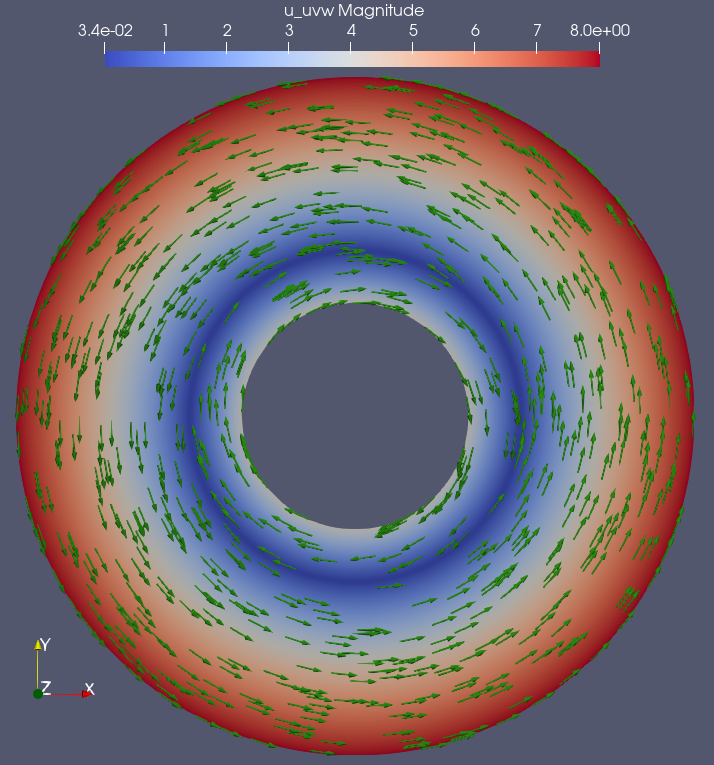
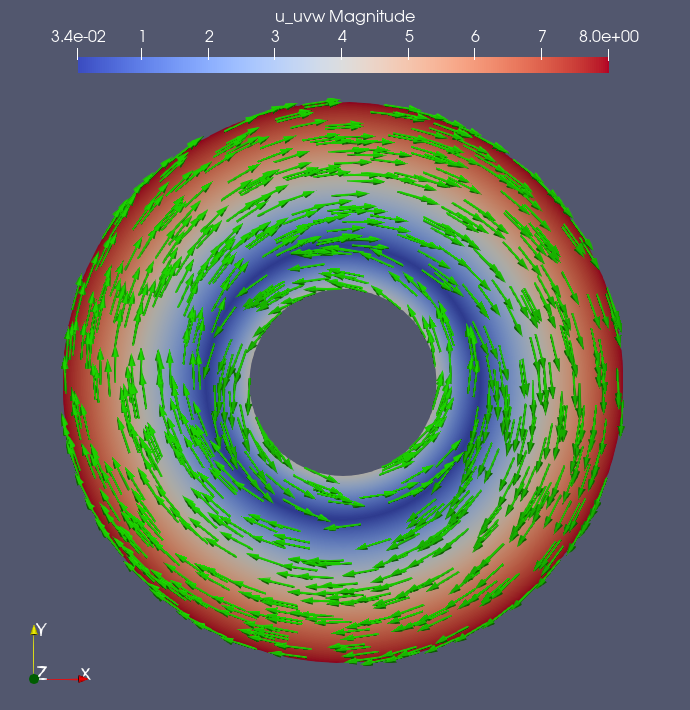
Fixed sign issue in Cartesian velocity calculation

diff --git a/tutorials/11_CouetteFlow/11_CouetteFlow2D.cpp b/tutorials/11_CouetteFlow/11_CouetteFlow2D.cpp
@@ -281,7 +281,7 @@ real_t convAnalysis( const walberla::Config::BlockHandle& mainConf, uint_t minLe
    std::function< real_t( const Point3D& ) > boundaryConditionsX = [uInner, uOuter, rMean]( const Point3D& x ) {
       real_t r = std::sqrt( x[0] * x[0] + x[1] * x[1] );
 
-      real_t sin_theta = x[1] / r;
+      real_t sin_theta = -x[1] / r;
 
       if ( r < rMean )
       {
@@ -298,7 +298,7 @@ real_t convAnalysis( const walberla::Config::BlockHandle& mainConf, uint_t minLe
    std::function< real_t( const Point3D& ) > boundaryConditionsY = [uInner, uOuter, rMean]( const Point3D& x ) {
       real_t r = std::sqrt( x[0] * x[0] + x[1] * x[1] );
 
-      real_t cos_theta = -x[0] / r;
+      real_t cos_theta = x[0] / r;
 
       if ( r < rMean )
       {
@@ -363,7 +363,7 @@ real_t convAnalysis( const walberla::Config::BlockHandle& mainConf, uint_t minLe
    /// [massOpErr]
    typedef P2ElementwiseBlendingVectorMassOperator MassOperator;
 
-   MassOperator M( storage, maxLevel+1, maxLevel + 1 );
+   MassOperator M( storage, maxLevel + 1, maxLevel + 1 );
    /// [massOpErr]
 
    std::function< real_t( const Point3D& ) > analyticalU = [uInner, uOuter, rMin, rMax]( const Point3D& x ) {
@@ -374,7 +374,7 @@ real_t convAnalysis( const walberla::Config::BlockHandle& mainConf, uint_t minLe
       real_t c1      = ( uInner / rMin ) - ( c2 / ( rMin * rMin ) );
       real_t u_theta = c1 * r + c2 * ( real_c( 1.0 ) / r );
 
-      return u_theta * std::sin( theta );
+      return real_c( -1.0 ) * u_theta * std::sin( theta );
    };
 
    std::function< real_t( const Point3D& ) > analyticalV = [uInner, uOuter, rMin, rMax]( const Point3D& x ) {
@@ -385,7 +385,7 @@ real_t convAnalysis( const walberla::Config::BlockHandle& mainConf, uint_t minLe
       real_t c1      = ( uInner / rMin ) - ( c2 / ( rMin * rMin ) );
       real_t u_theta = c1 * r + c2 * ( real_c( 1.0 ) / r );
 
-      return real_c( -1.0 ) * u_theta * std::cos( theta );
+      return u_theta * std::cos( theta );
    };
 
    uAnalytical.uvw().interpolate( { analyticalU, analyticalV }, maxLevel, All );
@@ -413,7 +413,10 @@ real_t convAnalysis( const walberla::Config::BlockHandle& mainConf, uint_t minLe
 
    real_t residualNorm = std::sqrt( residual.uvw().dotGlobal( residual.uvw(), maxLevel, All ) );
 
-   WALBERLA_ROOT_SECTION() { std::cout << "Residual = " << residualNorm << std::endl << "errorUV = " << errorUV << std::endl; }
+   WALBERLA_ROOT_SECTION()
+   {
+      std::cout << "Residual = " << residualNorm << std::endl << "errorUV = " << errorUV << std::endl;
+   }
 
    return errorUV;
 }
@@ -440,7 +443,10 @@ int main( int argc, char* argv[] )
 
    const walberla::Config::BlockHandle mainConf = cfg->getBlock( "Parameters" );
 
-   WALBERLA_ROOT_SECTION() { mainConf.listParameters(); }
+   WALBERLA_ROOT_SECTION()
+   {
+      mainConf.listParameters();
+   }
 
    real_t hMin = real_c( 0.0 );
 
